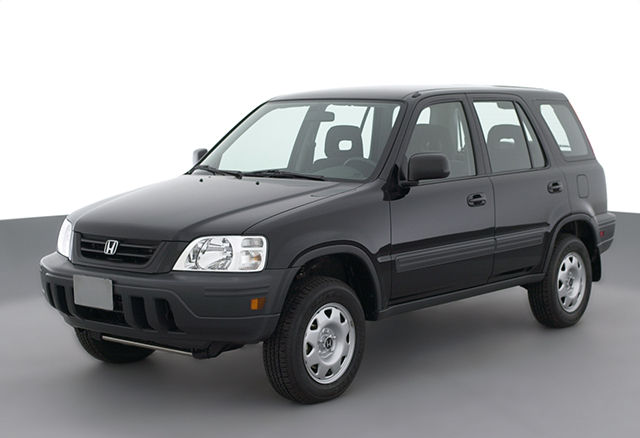
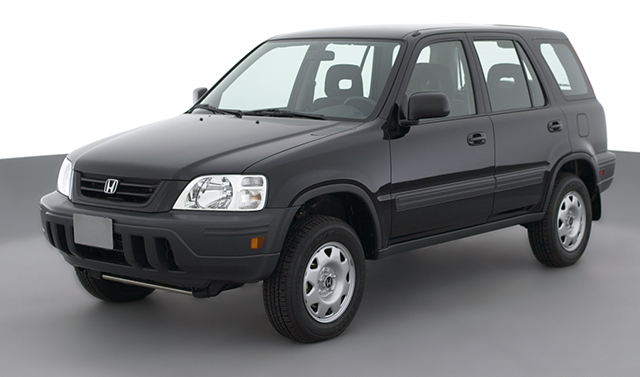
fix(frontend): normalise car image scaling and align card buttons

diff --git a/src/frontend/components/features/cars/car-card.tsx b/src/frontend/components/features/cars/car-card.tsx
@@ -5,18 +5,18 @@ import type { Car } from "@/shared/types";
 
 export function CarCard({ car }: { car: Car }) {
   return (
-    <div className="group overflow-hidden rounded-lg border bg-white transition-shadow hover:shadow-md">
-      <div className="relative aspect-[4/3] bg-gray-100">
+    <div className="group flex h-full flex-col overflow-hidden rounded-lg border bg-white transition-shadow hover:shadow-md">
+      <div className="relative aspect-[4/3] bg-white">
         <Image
           src={car.imageUrl}
           alt={`${car.make} ${car.model}`}
           fill
-          className="object-cover transition-transform group-hover:scale-105"
+          className="object-contain p-6 transition-transform group-hover:scale-105"
           sizes="(max-width: 768px) 100vw, 33vw"
         />
       </div>
 
-      <div className="space-y-2 p-4">
+      <div className="flex flex-1 flex-col gap-2 p-4">
         <div className="flex items-start justify-between">
           <div>
             <h3 className="font-semibold">
@@ -34,7 +34,7 @@ export function CarCard({ car }: { car: Car }) {
 
         <Link
           href={`/cars/${car.id}`}
-          className="flex h-9 w-full items-center justify-center rounded-md bg-brand text-sm font-medium text-white transition-colors hover:bg-brand-dark"
+          className="mt-auto flex h-9 w-full items-center justify-center rounded-md bg-brand text-sm font-medium text-white transition-colors hover:bg-brand-dark"
         >
           View details
         </Link>

diff --git a/src/app/(shop)/cars/[id]/page.tsx b/src/app/(shop)/cars/[id]/page.tsx
@@ -11,12 +11,12 @@ export default async function CarDetailPage({ params }: { params: { id: string }
   return (
     <div className="mx-auto max-w-4xl space-y-8 px-4 py-8">
       <div className="grid gap-8 md:grid-cols-2">
-        <div className="relative aspect-[4/3] overflow-hidden rounded-lg bg-gray-100">
+        <div className="relative aspect-[4/3] overflow-hidden rounded-lg border bg-white">
           <Image
             src={car.imageUrl}
             alt={`${car.make} ${car.model}`}
             fill
-            className="object-cover"
+            className="object-contain p-6"
             sizes="(max-width: 768px) 100vw, 50vw"
             priority
           />

diff --git a/src/app/(marketing)/page.tsx b/src/app/(marketing)/page.tsx
@@ -15,7 +15,7 @@ export default async function HomePage() {
       <section className="space-y-4 py-8 text-center">
         <h1 className="text-4xl font-bold tracking-tight">{siteConfig.description}</h1>
         <p className="text-gray-500">
-          Browse our fleet and book in minutes — no hidden fees, free cancellation.
+          Browse our fleet and book in minutes. No hidden fees, free cancellation.
         </p>
         <div className="flex justify-center">
           <SearchBar />
